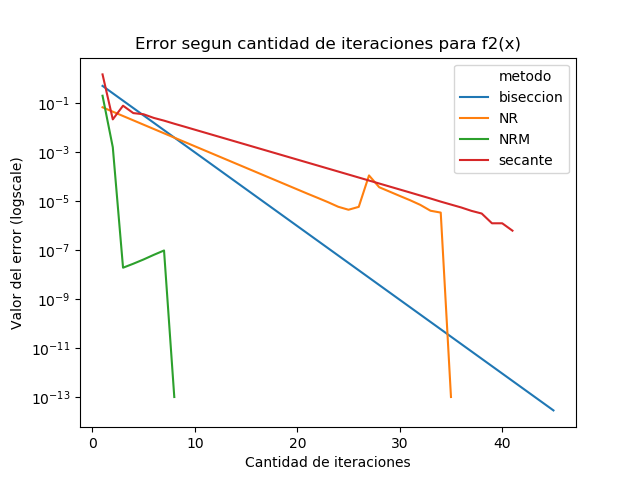
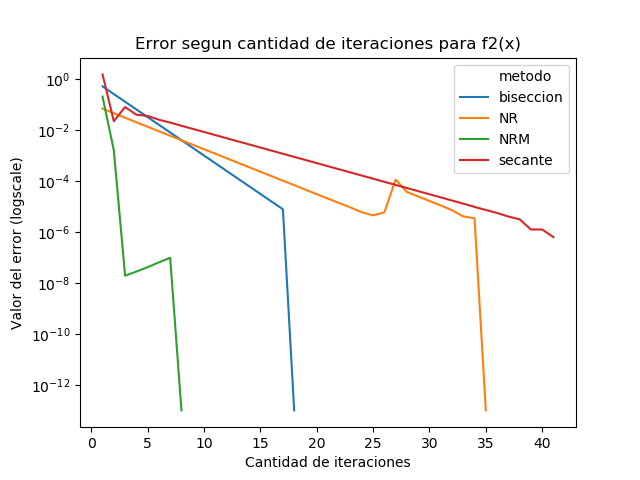
Arreglo biseccion. Reminder de agregar figuras al gitignore.

diff --git a/metodosDeBusqueda.py b/metodosDeBusqueda.py
@@ -25,6 +25,9 @@ def biseccion(funcion, tolerancia, a, b):
         historial.append(raizAct)
         if funcion.evaluar_funcion(a) * funcion.evaluar_funcion(raizAct) < 0:
             b = raizAct
+        elif funcion.evaluar_funcion(a) * funcion.evaluar_funcion(raizAct) == 0:
+        	errores.append(tolerancia)
+        	break
         else:
             a = raizAct
         errores.append((b-a)/2)
@@ -54,7 +57,7 @@ def newton_raphson(funcion, tolerancia, semilla):
         if error:
         	errores.append(error)
         else:
-        	errores.append(1e-13)
+        	errores.append(tolerancia)
         raizAnt = raizAct
     return historial, errores
 
@@ -85,7 +88,7 @@ def secante(funcion, tolerancia, semilla1, semilla2):
 		if error:
 			errores.append(error)
 		else:
-			errores.append(1e-13)
+			errores.append(tolerancia)
 		ptoAnterior2 = ptoAnterior
 		ptoAnterior = p
 	return historial, errores
@@ -115,7 +118,7 @@ def newtonRaphsonMod(funcion, tolerancia, semilla):
         if error:
             errores.append(error)
         else:
-            errores.append(1e-13)
+            errores.append(tolerancia)
         raizAnt = raizAct
     return historial, errores
 
